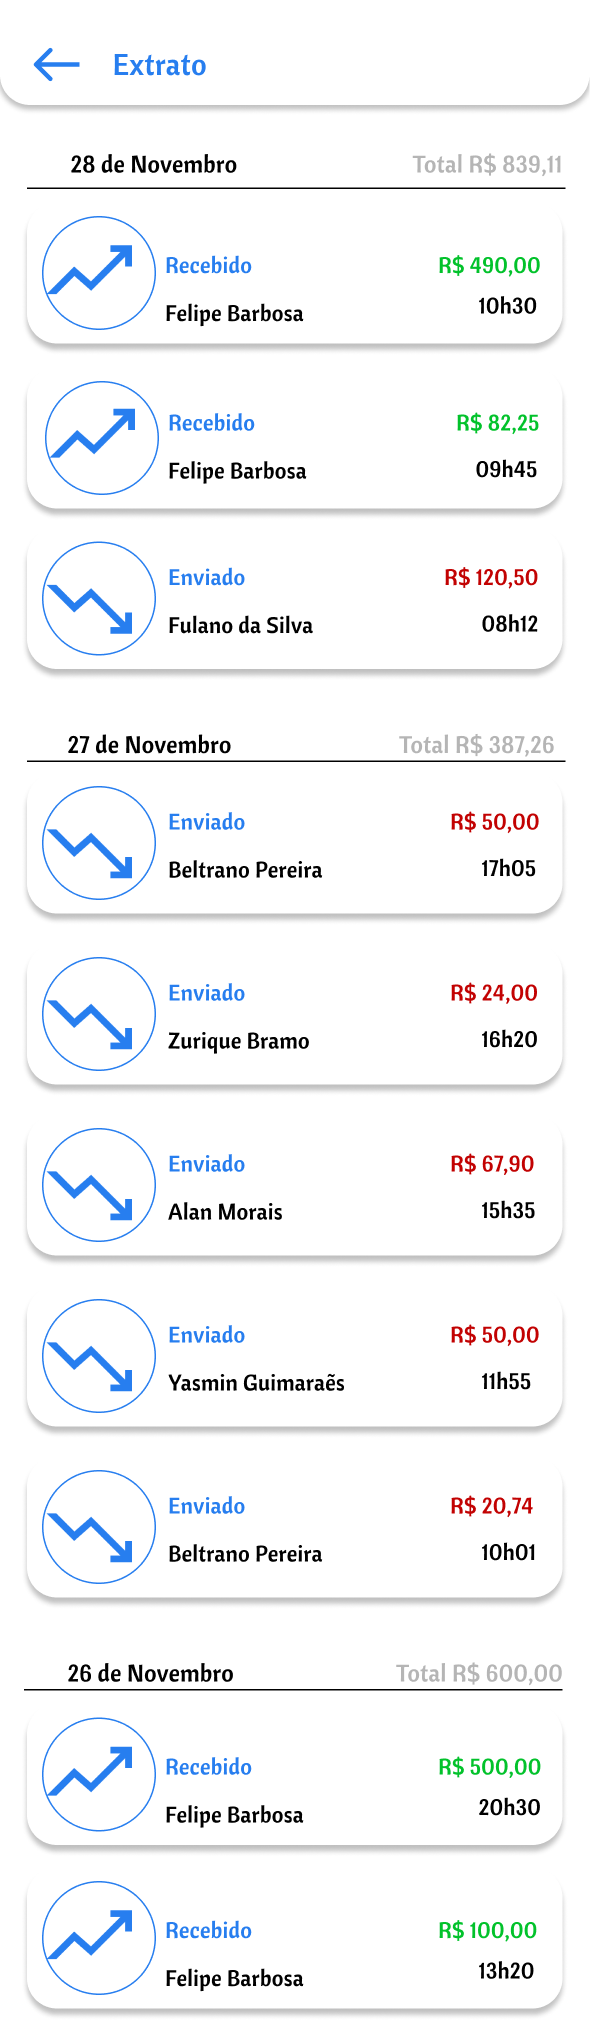
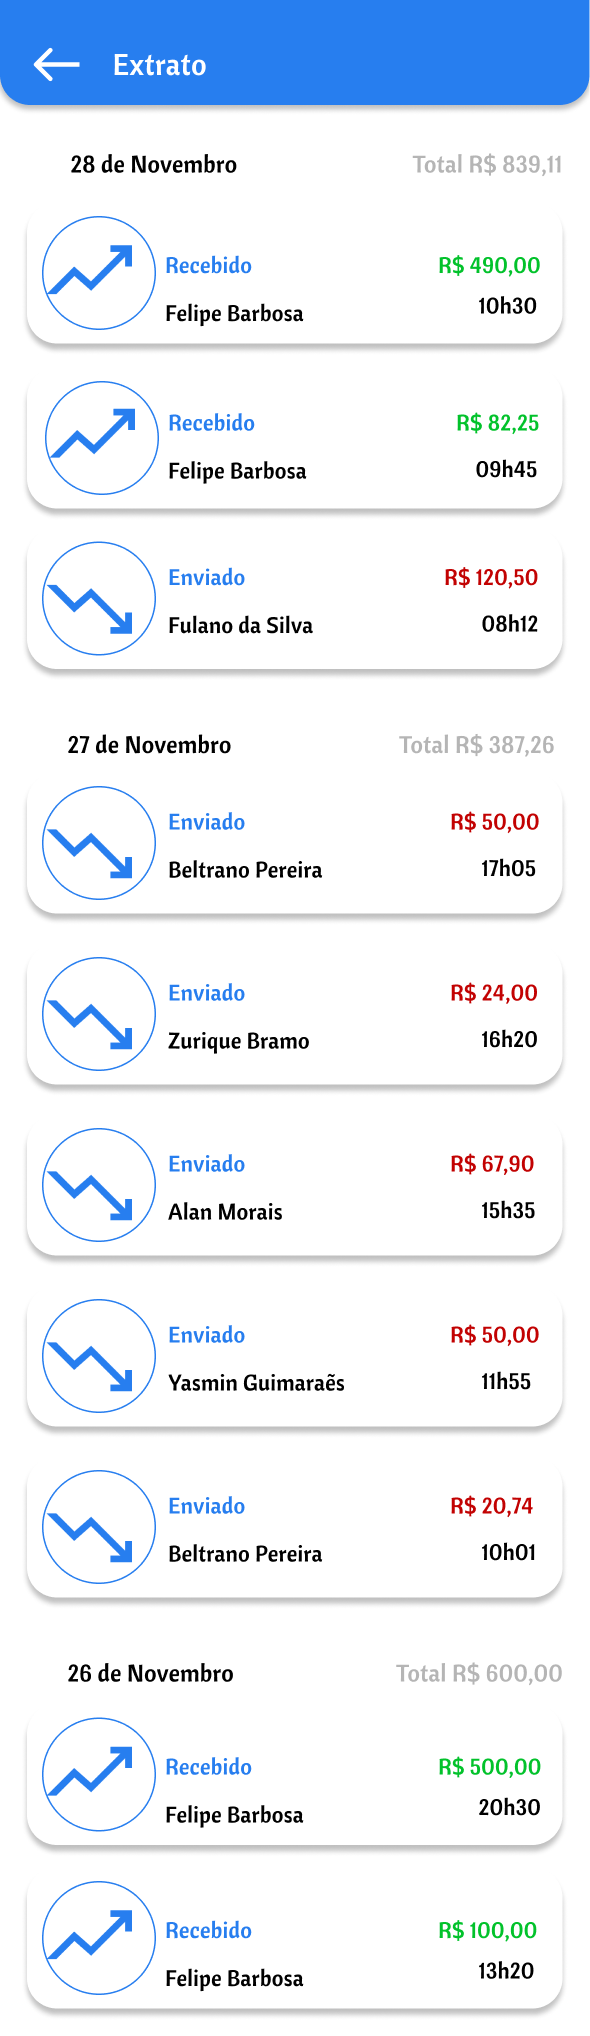
Mudança na cor da barra superior, tela extrato e pix

Changed region(s): [[0.0, 0.0, 1.0, 0.0619]]

diff --git a/README.md b/README.md
@@ -4,7 +4,7 @@
 
 **Acesse o protótipo navegável completo clicando no link abaixo:**
 
-👉 [!Acessar protótipo no Figma](https://www.figma.com/proto/1nyxt90edv6komgD6J6rTb/prototipo-hallbank?node-id=1-5&p=f&t=2N8v80O6pRSbFf0n-1&scaling=scale-down&content-scaling=fixed&page-id=0%3A1&starting-point-node-id=1%3A5)
+👉 [!Acessar protótipo no Figma](https://www.figma.com/proto/1nyxt90edv6komgD6J6rTb/prototipo-hallbank?node-id=1-5&p=f&t=VJ3r21FDKX5xqFLz-1&scaling=scale-down&content-scaling=fixed&page-id=0%3A1&starting-point-node-id=1%3A5)
 
 ---
 
